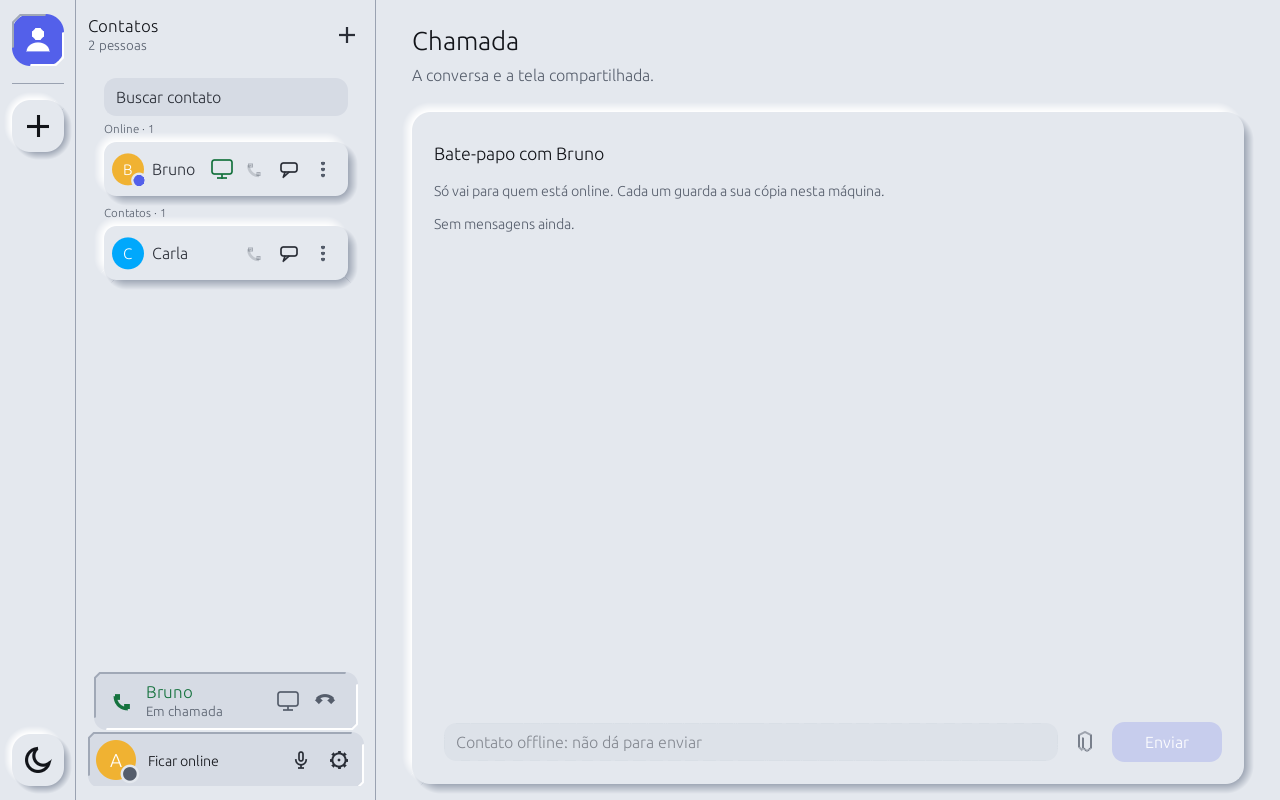
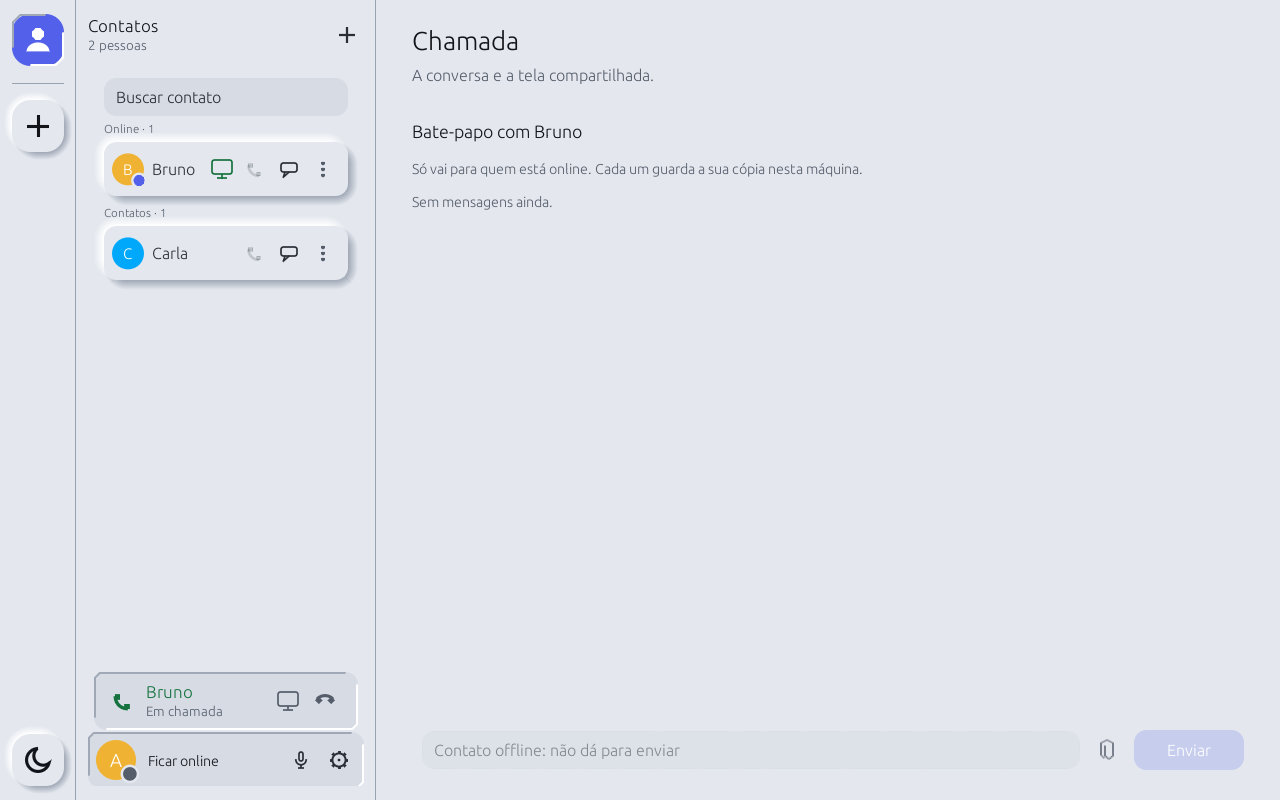
Bate-papo do contato sem cartão, como o da sala: a conversa e o campo de envio descem até o pé da janela

Changed region(s): [[0.3438, 0.1562, 1.0, 1.0], [0.3125, 0.1562, 0.6875, 0.2812], [0.3438, 0.9062, 0.5312, 0.9375]]

diff --git a/examples/gui/conversa.rs b/examples/gui/conversa.rs
@@ -25,9 +25,9 @@ impl App {
         }
         let xfers = self.shared.transfers.lock_unpoisoned().of(&peer);
         let mut file_cmds: Vec<Cmd> = Vec::new();
-        // Como `card`, mas com o X no fim da linha do título.
+        // Sem cartão, como o bate-papo da sala: título, mensagens até o pé da janela e a linha de envio embaixo.
         ui.add_space(4.0);
-        raised_frame(ui, R_CARD, 22, |ui| {
+        ui.scope(|ui| {
             ui.set_width(ui.available_width());
             ui.horizontal(|ui| {
                 ui.label(RichText::new(format!("Bate-papo com {name}")).strong().size(18.0).color(pal().strong));
@@ -42,7 +42,7 @@ impl App {
             });
             note(ui, "Só vai para quem está online. Cada um guarda a sua cópia nesta máquina.");
             ui.add_space(6.0);
-            let height = (ui.clip_rect().bottom() - ui.cursor().top() - 92.0).max(160.0);
+            let height = (ui.clip_rect().bottom() - ui.cursor().top() - 84.0).max(160.0);
             egui::ScrollArea::vertical().id_salt(("conversa", peer)).max_height(height).min_scrolled_height(height).stick_to_bottom(true).auto_shrink([false, false]).show(ui, |ui| {
                 if msgs.is_empty() {
                     note(ui, "Sem mensagens ainda.");
@@ -110,7 +110,7 @@ impl App {
                 }
             });
         });
-        ui.add_space(18.0);
+        ui.add_space(16.0);
         if let Some(r) = &self.running {
             for c in file_cmds {
                 let _ = r.cmds.send(c);
